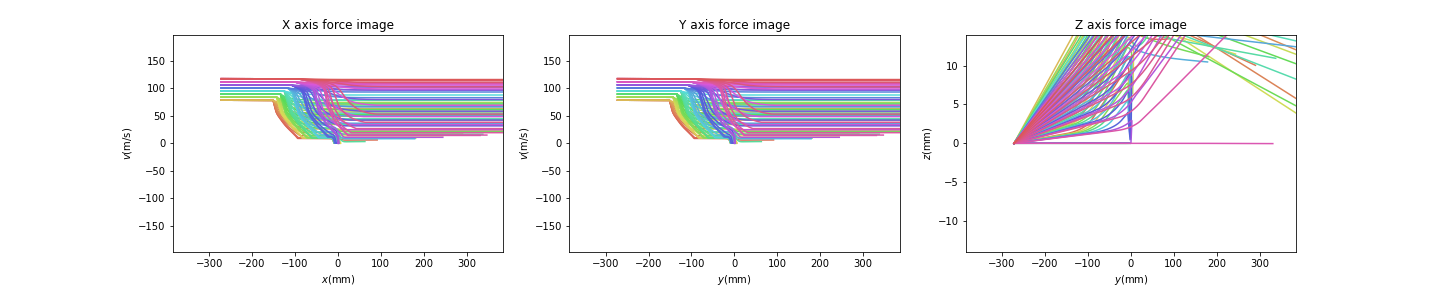
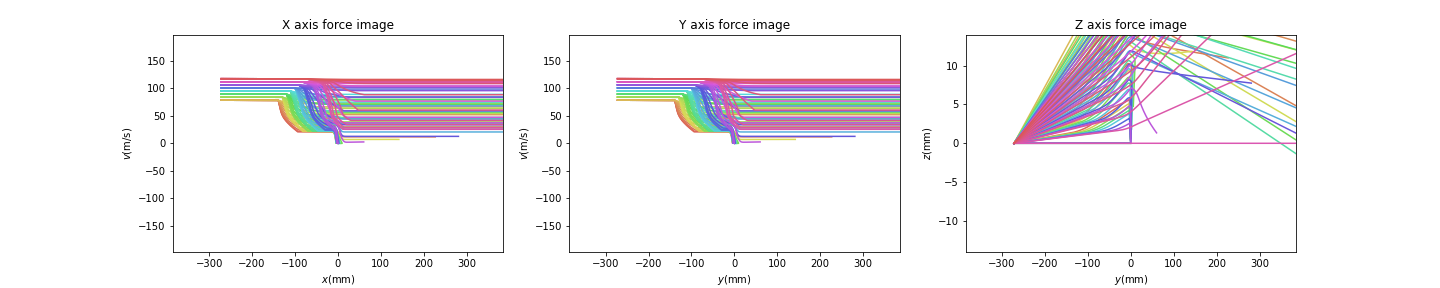
2022-05-13

Changed region(s): [[0.75, 0.125, 0.9062, 0.5312], [0.1875, 0.2812, 0.375, 0.5], [0.4375, 0.2812, 0.625, 0.5]]

diff --git a/Expected_model_simulation.py b/Expected_model_simulation.py
@@ -1,4 +1,5 @@
 import multiprocessing
+from multiprocessing.sharedctypes import Value
 import sys
 import numpy as np
 import matplotlib.pyplot as plt
@@ -236,7 +237,11 @@ def root_find(vz,tt,vc):
     return capture_condition(vz*tt*x0*1000,vz,vc)
 
 def max_vz_calculator(tt,vc):
-    max_vz = root_scalar(root_find,(tt,vc),method='bisect',bracket=[0,1])
+    try:
+        max_vz = root_scalar(root_find,(tt,vc),method='bisect',bracket=[0,1])
+    except(ValueError):
+        return 0.
+    
     return max_vz.root
 
 def multi_max_vz_calculator(tv_list):
@@ -279,6 +284,6 @@ def Expected_simulation(main_det,det_1,det_2,beta_1,beta_2,laseron,laseroff):
 if __name__ == "__main__":
     connection = pymongo.MongoClient("localhost:27017")
     db = connection.db.Expected_model
-    max_parameters = db.distinct(key = 'params',filter={'target' : {'$gte' : 0.0666}})    
-    result = Expected_simulation(**max_parameters[1])
+    max_parameters = db.distinct(key = 'params',filter={'target' : {'$gte' : 0.01275}})    
+    result = Expected_simulation(**max_parameters[0])
     print(result)
